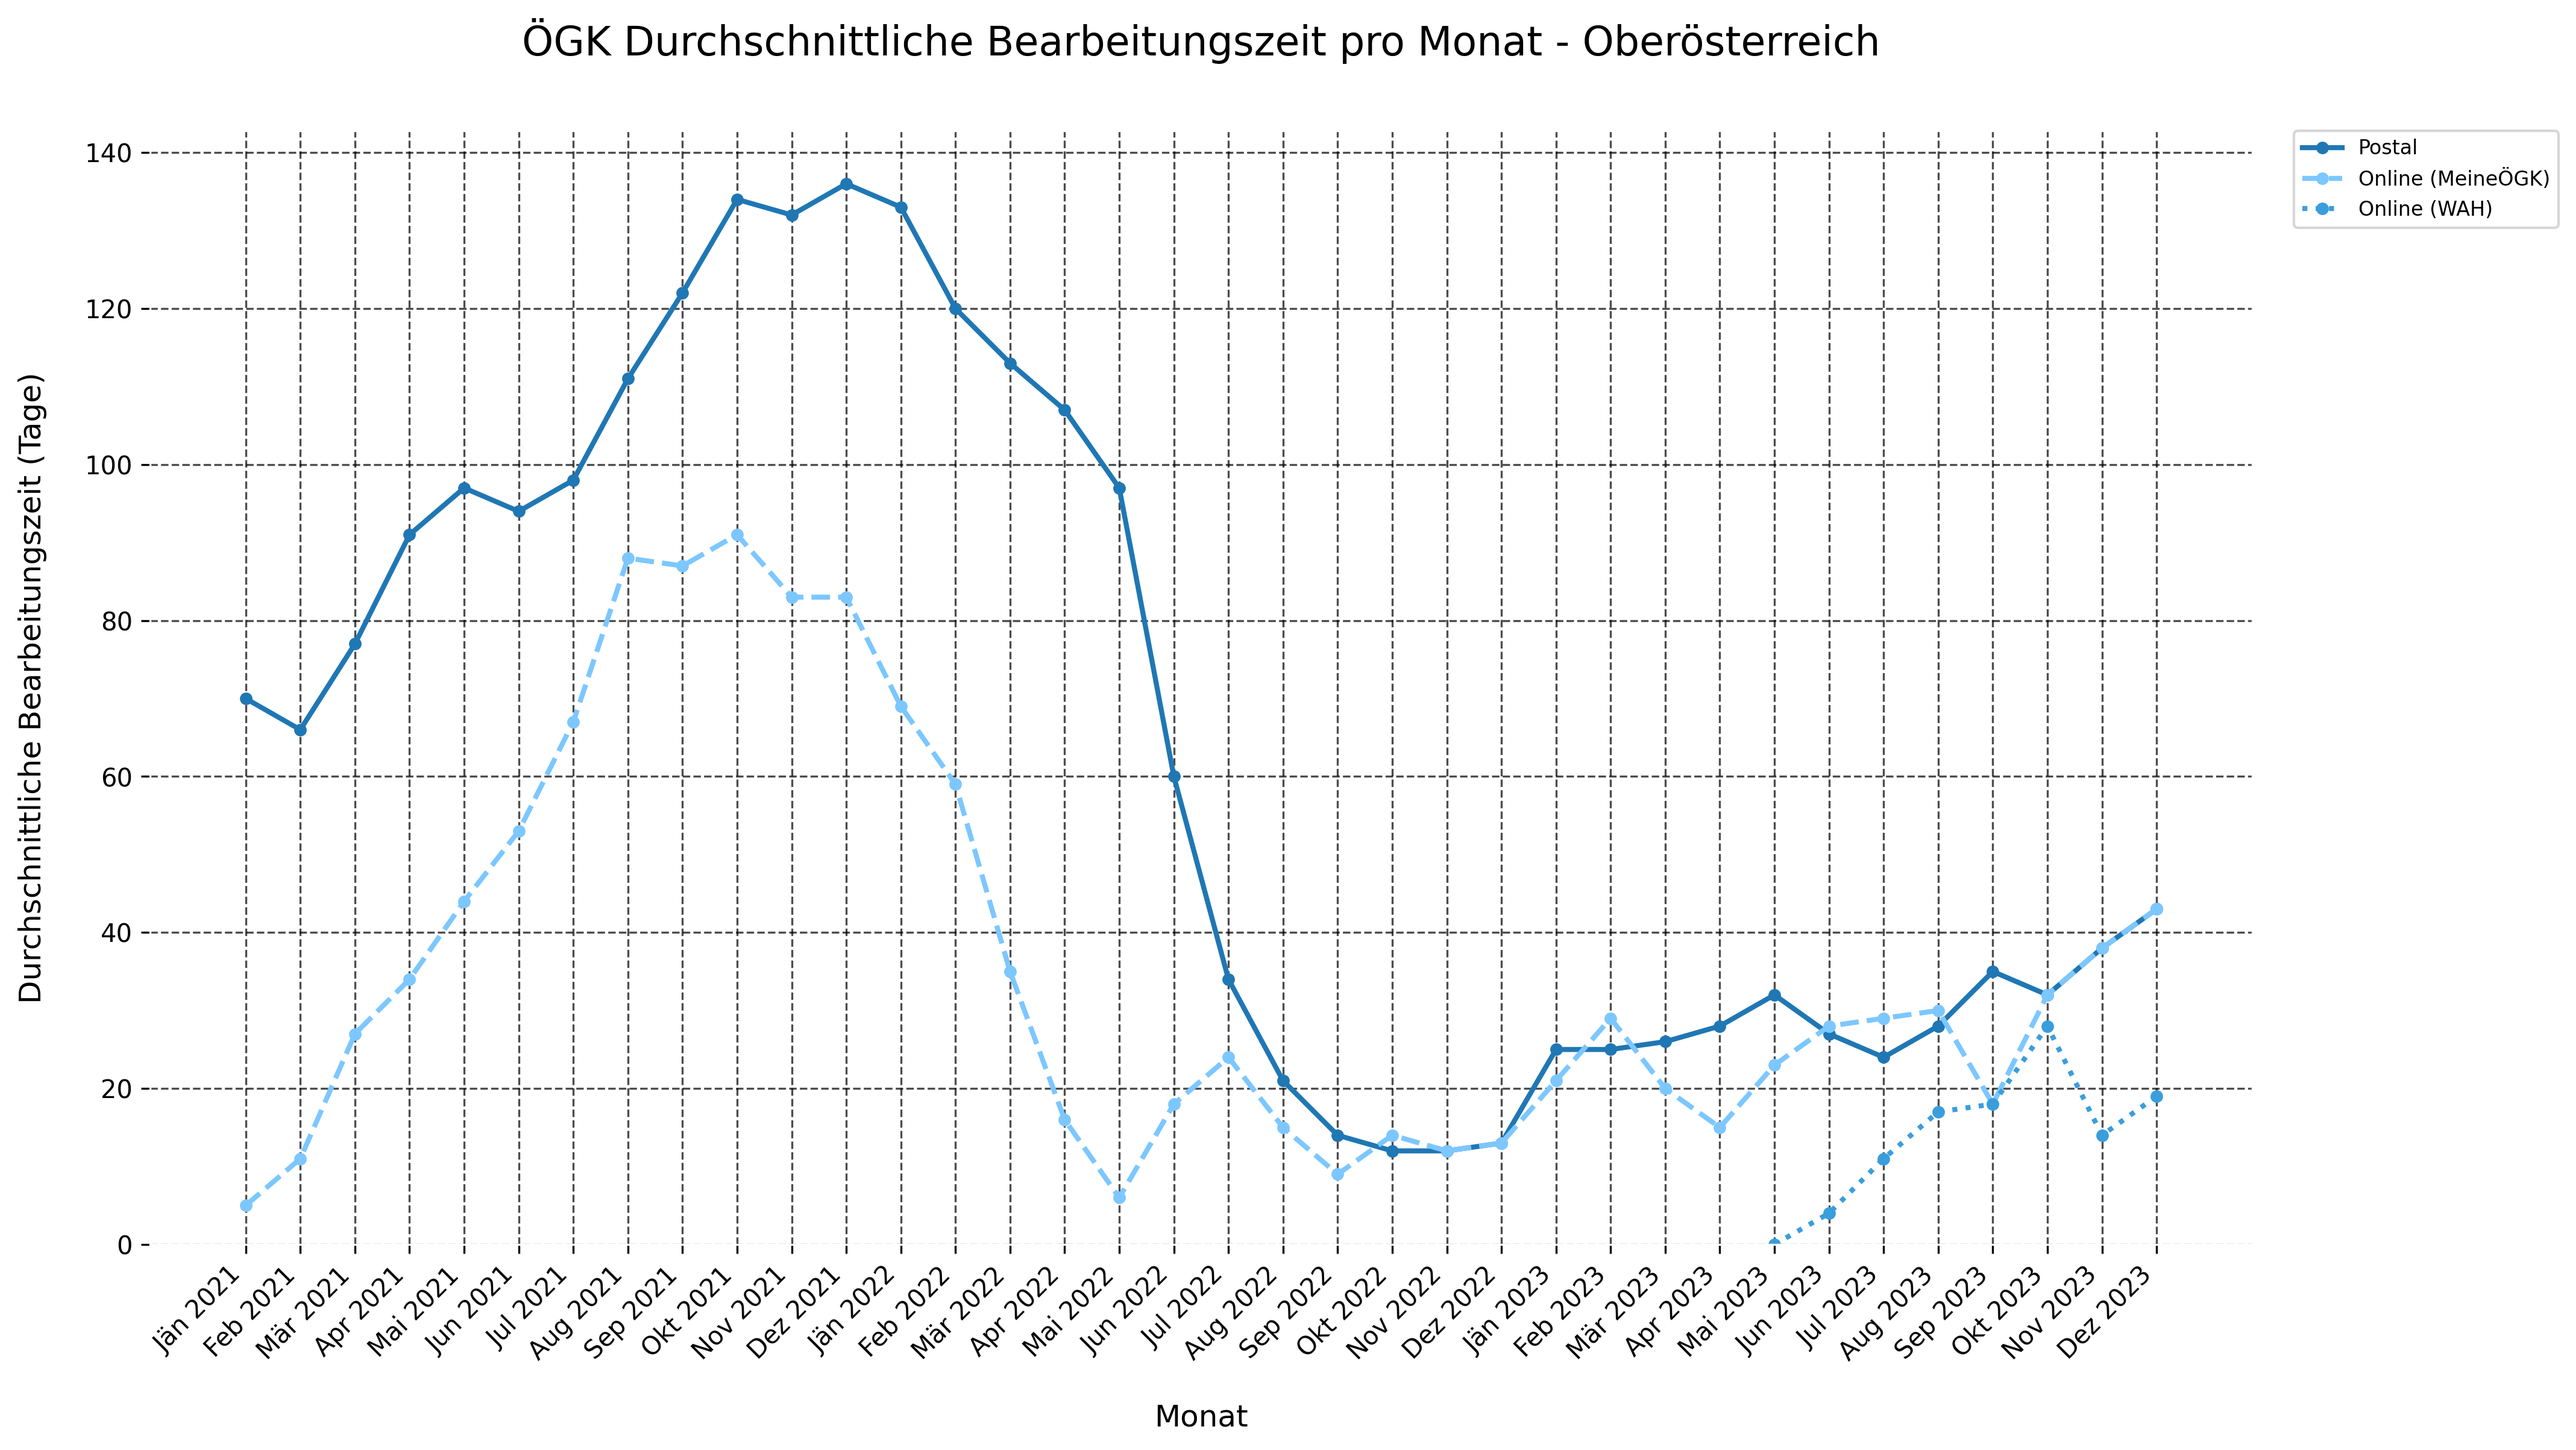
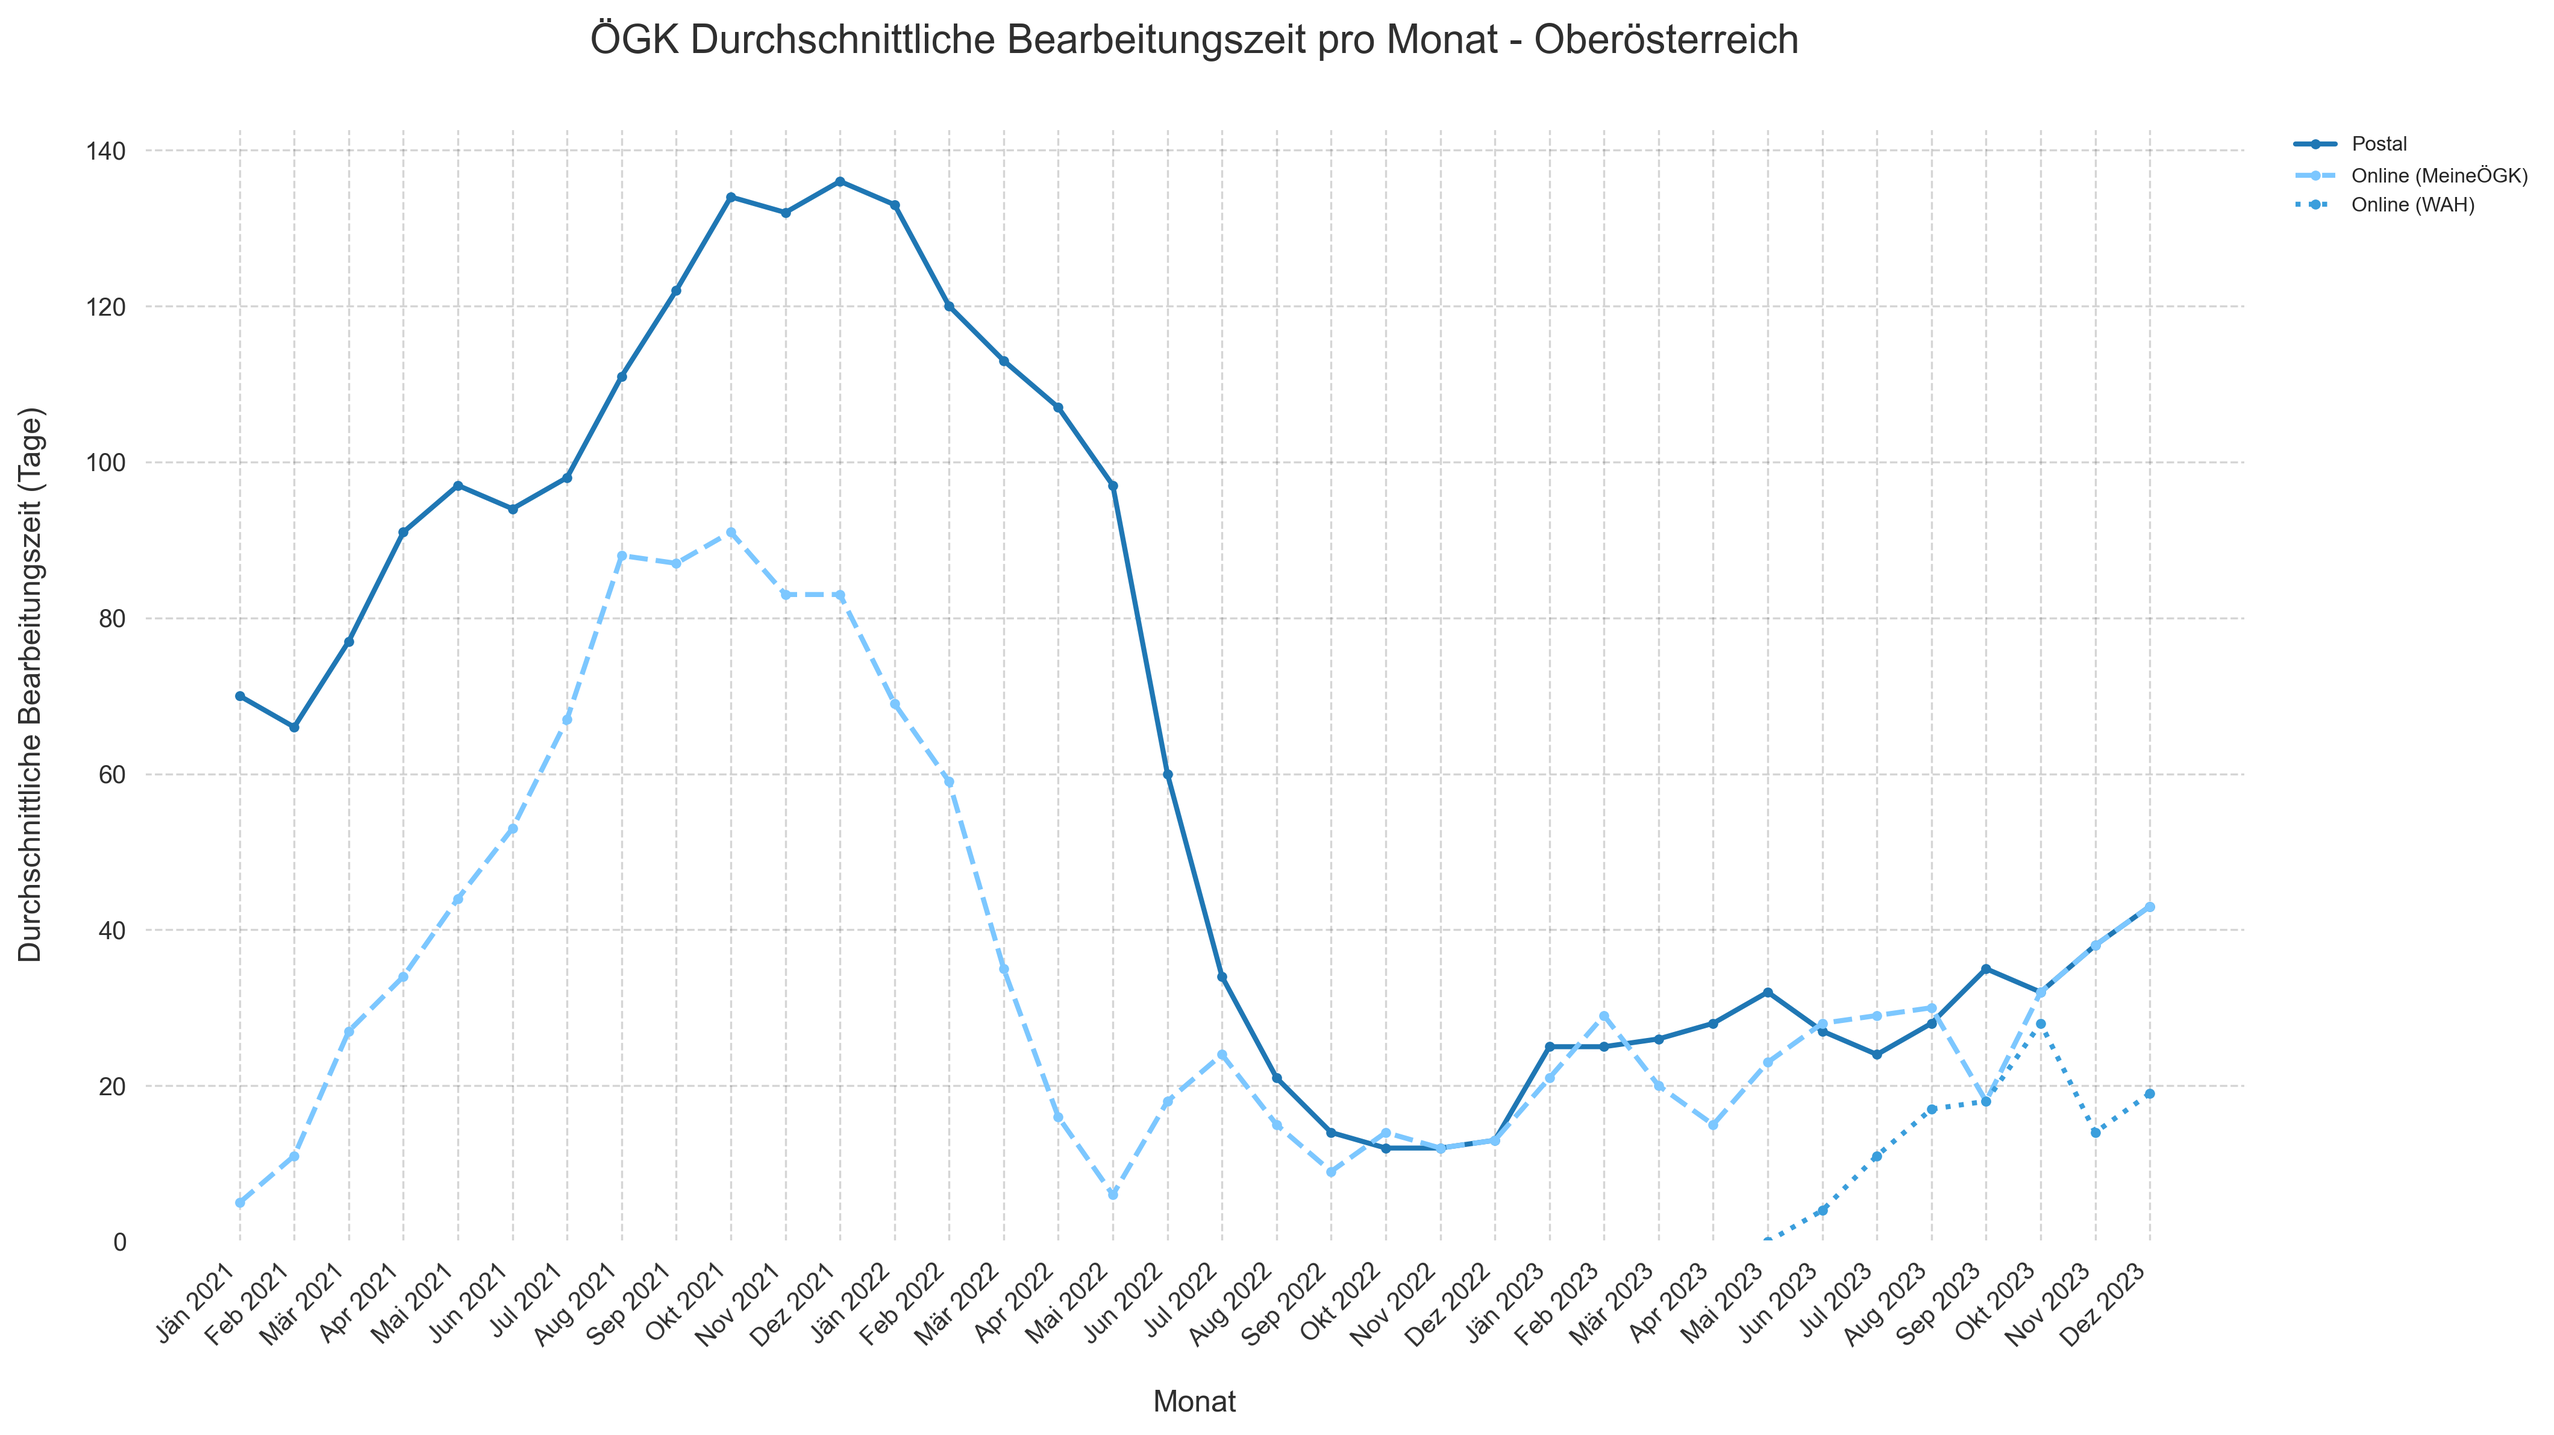
improved the bearbeitungszeit plots

diff --git a/visualize/plot_oegk_bearbeitungszeit.py b/visualize/plot_oegk_bearbeitungszeit.py
@@ -27,16 +27,34 @@ def translate_to_german_date(date):
 
 def setup_plot_style(dark_mode=True):
     """Setup the plot style based on dark/light mode."""
+    plt.style.use('seaborn-v0_8')  # Use seaborn style as base
+    
     if dark_mode:
-        plt.style.use('dark_background')
-        text_color = 'white'
-        bg_color = '#1a1a1a'
-        grid_alpha = 0.2
+        text_color = '#E8E8E8'  # Softer white
+        bg_color = '#1E1E1E'    # Richer dark background
+        grid_alpha = 0.15
+        plt.rcParams['figure.facecolor'] = bg_color
+        plt.rcParams['axes.facecolor'] = '#252525'  # Slightly lighter than background
     else:
-        plt.style.use('default')
-        text_color = 'black'
-        bg_color = 'white'
-        grid_alpha = 0.7
+        text_color = '#2F2F2F'  # Softer black
+        bg_color = '#FFFFFF'
+        grid_alpha = 0.2
+        plt.rcParams['figure.facecolor'] = bg_color
+        plt.rcParams['axes.facecolor'] = '#F8F8F8'  # Very light gray
+    
+    # Set global font settings
+    plt.rcParams['font.family'] = 'sans-serif'
+    plt.rcParams['font.sans-serif'] = ['Helvetica', 'Arial', 'DejaVu Sans']
+    plt.rcParams['axes.titlesize'] = 14
+    plt.rcParams['axes.labelsize'] = 12
+    plt.rcParams['xtick.labelsize'] = 10
+    plt.rcParams['ytick.labelsize'] = 10
+    
+    # Set line styling
+    plt.rcParams['axes.linewidth'] = 1.2
+    plt.rcParams['grid.linewidth'] = 0.8
+    plt.rcParams['lines.linewidth'] = 2.0
+    plt.rcParams['lines.markersize'] = 6
     
     return text_color, bg_color, grid_alpha
 
@@ -351,19 +369,14 @@ def create_grid_processing_time_plot(df_2023, df_historical, dark_mode=True):
     ]).sort_values(["Date", "Bundesland_pretty"])
 
     # Create figure with subplots
-    fig, axes = plt.subplots(3, 3, figsize=(24, 18))  # Reduced height
-    fig.subplots_adjust(hspace=0.5, wspace=0.2)  # Adjusted spacing between subplots
+    fig = plt.figure(figsize=(24, 16))  # Slightly reduced height
+    gs = fig.add_gridspec(3, 3, hspace=0.35, wspace=0.15, bottom=0.05)  # Added bottom margin control
+    axes = gs.subplots()
 
     # Setup style
     text_color, bg_color, grid_alpha = setup_plot_style(dark_mode)
     fig.patch.set_facecolor(bg_color)
 
-    # Define colors for light mode
-    if not dark_mode:
-        subplot_bg_color = '#f5f5f5'  # Light gray background
-        border_color = '#cccccc'  # Medium gray border
-        alt_bg_color = '#ffffff'  # White background for alternating pattern
-    
     # Get dates for x-axis
     dates = df_combined["Date"].unique()
     german_dates = [translate_to_german_date(d) for d in dates]
@@ -371,7 +384,7 @@ def create_grid_processing_time_plot(df_2023, df_historical, dark_mode=True):
     # Create labels for every third month
     date_labels = []
     for i, date in enumerate(german_dates):
-        if i % 3 == 0:  # Show only every third month
+        if i % 3 == 0:
             date_labels.append(date)
         else:
             date_labels.append("")
@@ -379,17 +392,20 @@ def create_grid_processing_time_plot(df_2023, df_historical, dark_mode=True):
     # Get unique Bundesländer
     bundeslaender = sorted(df_combined["Bundesland_pretty"].unique())
 
-    # Setup colors for the three types
-    base_colors = create_base_colors()[0]  # Use first color set for all plots
-    postal_color = base_colors[0]
-    online_color = base_colors[1]
-    online_new_color = base_colors[2]
+    # Setup modern color palette
+    if dark_mode:
+        postal_color = '#00A6FB'      # Bright blue
+        online_color = '#51D88A'      # Bright green
+        online_new_color = '#FB6107'  # Bright orange
+    else:
+        postal_color = '#1E88E5'      # Material blue
+        online_color = '#43A047'      # Material green
+        online_new_color = '#E65100'  # Material orange
 
     # Calculate global y-axis limits
     y_min = float('inf')
     y_max = float('-inf')
     
-    # First pass to calculate global y limits
     for bundesland in bundeslaender:
         bl_data = df_combined[df_combined["Bundesland_pretty"] == bundesland].sort_values("Date")
         bl_data_aligned = pd.DataFrame(index=dates)
@@ -401,126 +417,109 @@ def create_grid_processing_time_plot(df_2023, df_historical, dark_mode=True):
         y_min = min(y_min, current_min)
         y_max = max(y_max, current_max)
     
-    # Add padding to y limits
     y_min = y_min * 0.95
     y_max = y_max * 1.05
 
-    # Create plots for each Bundesland
     for idx, bundesland in enumerate(bundeslaender):
         row = idx // 3
         col = idx % 3
         ax = axes[row, col]
         
-        # Set background color and border for light mode
-        if not dark_mode:
-            # Add border
-            for spine in ax.spines.values():
-                spine.set_edgecolor(border_color)
-                spine.set_linewidth(1.5)
-        ax.set_facecolor(bg_color)
-
-        # Filter data for this Bundesland
-        bl_data = df_combined[df_combined["Bundesland_pretty"] == bundesland].sort_values("Date")
+        # Set background and style
+        ax.set_facecolor(plt.rcParams['axes.facecolor'])
         
-        # Ensure data is properly aligned with dates
+        # Add subtle box around plot
+        for spine in ax.spines.values():
+            if dark_mode:
+                spine.set_color(text_color)
+                spine.set_alpha(0.2)
+            else:
+                spine.set_color('#CCCCCC')
+            spine.set_linewidth(0.8)
+
+        # Filter and align data
+        bl_data = df_combined[df_combined["Bundesland_pretty"] == bundesland].sort_values("Date")
         bl_data_aligned = pd.DataFrame(index=dates)
         bl_data_aligned = bl_data_aligned.join(bl_data.set_index("Date"))
         
-        # Plot Postal (solid line)
+        # Plot lines with enhanced styling
         ax.plot(range(len(dates)), bl_data_aligned["Postal"], 
-                color=postal_color, marker='o', markersize=3, 
-                label="Postal", linewidth=2.5, linestyle='-')
+                color=postal_color, marker='o', markersize=4, 
+                label="Postal", linewidth=2, linestyle='-',
+                alpha=0.9)
 
-        # Plot Online MeineÖGK (dashed line)
         ax.plot(range(len(dates)), bl_data_aligned["OnlineMeine"], 
-                color=online_color, marker='o', markersize=3, 
-                label="MeineÖGK", linewidth=2.5, linestyle='--')
+                color=online_color, marker='o', markersize=4, 
+                label="MeineÖGK", linewidth=2, linestyle='--',
+                alpha=0.9)
 
-        # Plot Online WAH (dotted line) - only after May 2023
         mask_new_online = ~bl_data_aligned["OnlineWAH"].isna()
         if mask_new_online.any():
             dates_idx = np.where(mask_new_online)[0]
             ax.plot(dates_idx, bl_data_aligned[mask_new_online]["OnlineWAH"], 
-                    color=online_new_color, marker='o', markersize=3, 
-                    label="WAH", linewidth=2.5, linestyle=':')
+                    color=online_new_color, marker='o', markersize=4, 
+                    label="WAH", linewidth=2, linestyle=':',
+                    alpha=0.9)
 
-        # Customize subplot
-        ax.set_title(bundesland, fontsize=14, pad=10, color=text_color)
+        # Enhanced title and labels
+        ax.set_title(bundesland, fontsize=14, pad=15, color=text_color, fontweight='bold')
         
-        # Show x-label for all subplots
-        #ax.set_xlabel("Monat", fontsize=10, color=text_color, labelpad=10)
-        
-        # Only show y-label for first column
         if col == 0:
-            ax.set_ylabel("Bearbeitungszeit (Tage)", fontsize=10, color=text_color, labelpad=10)
+            ax.set_ylabel("Bearbeitungszeit (Tage)", fontsize=12, color=text_color, labelpad=10)
 
-        # Set x-axis labels with rotation for all subplots
+        # Improved x-axis styling
         ax.set_xticks(range(len(dates)))
-        ax.set_xticklabels(date_labels, rotation=45, ha='right', color=text_color, fontsize=8)
+        ax.set_xticklabels(date_labels, rotation=45, ha='right', color=text_color, fontsize=9)
         
-        # Set y-axis color and font size
-        ax.tick_params(colors=text_color, labelsize=8)
-        
-        # Add grid with emphasized lines for every third month
+        # Enhanced grid
         ax.grid(True, axis='y', linestyle="--", alpha=grid_alpha, color=text_color)
         
-        # Add vertical grid lines with different styles
         for i in range(len(dates)):
             if i % 3 == 0:
-                # Emphasized line for every third month
-                ax.axvline(x=i, color=text_color, linestyle='-', alpha=grid_alpha, linewidth=1.5)
+                ax.axvline(x=i, color=text_color, linestyle='-', alpha=grid_alpha*1.2, linewidth=1.0)
             else:
-                # Normal line for other months
-                ax.axvline(x=i, color=text_color, linestyle='--', alpha=grid_alpha * 0.5, linewidth=0.5)
+                ax.axvline(x=i, color=text_color, linestyle='--', alpha=grid_alpha*0.6, linewidth=0.5)
 
-        # Set common y-axis limits
         ax.set_ylim(y_min, y_max)
 
-        # Make every third x-label bold
+        # Enhanced tick labels
         for label in ax.get_xticklabels():
             pos = int(label.get_position()[0])
             if pos % 3 == 0:
                 label.set_fontweight('bold')
             else:
-                label.set_visible(False)  # Hide non-third labels
+                label.set_visible(False)
 
-    # Add a single legend for all subplots at the bottom
+    # Enhanced legend
     legend_kwargs = {
         "ncol": 3,
         "loc": "center",
-        "bbox_to_anchor": (0.5, -0.02),
-        "fontsize": 13,
+        "bbox_to_anchor": (0.5, -0.02),  # Moved legend much closer to plots
+        "fontsize": 12,
         "handlelength": 2,
         "borderaxespad": 0,
+        "frameon": True,
+        "edgecolor": 'none',
+        "facecolor": plt.rcParams['axes.facecolor'],
+        "labelcolor": text_color,
+        "columnspacing": 2.0,
+        "handletextpad": 0.8,
     }
     
-    if dark_mode:
-        legend_kwargs.update({
-            "facecolor": bg_color,
-            "edgecolor": "white",
-            "labelcolor": "white"
-        })
-    else:
-        legend_kwargs.update({
-            "facecolor": "white",
-            "edgecolor": border_color,
-            "labelcolor": "black"
-        })
-    
-    # Create legend using the last subplot's lines
     fig.legend(*ax.get_legend_handles_labels(), **legend_kwargs)
 
-    # Add overall title
+    # Enhanced main title
     fig.suptitle(
         "ÖGK Durchschnittliche Bearbeitungszeit pro Monat - Alle Bundesländer",
-        fontsize=16,
+        fontsize=18,
         color=text_color,
-        y=1
+        y=0.98,  # Adjusted title position
+        fontweight='bold'
     )
 
-    # Save plot with tighter layout
+    # Save plot with enhanced layout
     output_filename = os.path.join(output_dir, "oegk_bearbeitungszeit_grid_dark.png" if dark_mode else "oegk_bearbeitungszeit_grid.png")
-    plt.tight_layout()  # Apply tight layout before saving
+    plt.tight_layout(rect=[0, 0.02, 1, 0.98])  # Adjusted layout to leave space for legend and title
     save_plot(fig, output_filename, dark_mode, bg_color)
 
 def main():
